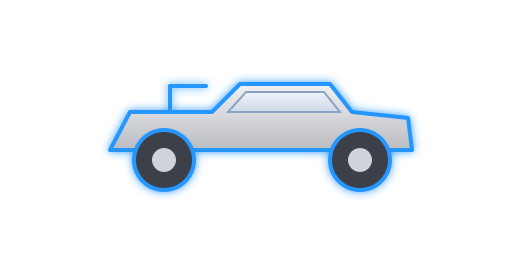
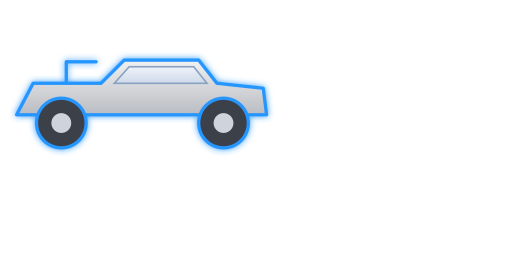
Menus: the illustrations fitted and centred in the part of the picture the menu shows
The menus draw a picture texel for texel from its top left corner, as much
as the widget covers (307x244 in Multiplayer, 284x208 in the game type
options, 279x202 in the profile settings), so the illustrations, drawn in
the middle of the 512x256, were off to the right and cut. Each is now
measured and fitted, centred, in its menu's part.

Changed region(s): [[0.0, 0.1875, 0.8438, 0.7812]]

diff --git a/tools/menu_icons.py b/tools/menu_icons.py
@@ -7,12 +7,19 @@ Settings menus), as plain illustrations in the menus' blue, and renders them to 
 Each is a 512x256 picture with a transparent background (as the PC version's are). They stand in
 for the PC version's pictures (Bungie's art: not shipped), one per entry of the menu list it
 previews: see port/assets/menus/NON_HANDDRAWN.md.
+
+The menus draw a picture texel for texel from its top left corner, as much of it as the widget
+showing it covers (ui_widget.c): only that corner of the 512x256 is seen. So each drawing is drawn
+once, measured (what it covers, its glow too), and fitted and centred in the corner its menu shows.
 """
 
 import argparse
 import shlex
 import subprocess
+import tempfile
 from pathlib import Path
+
+from PIL import Image
 
 ROOT = Path(__file__).resolve().parent.parent
 CE = ROOT / "port/assets/menus/ce/shell/main_menu"
@@ -167,6 +174,25 @@ def network():
                + pc(80, 130) + pc(330, 130))
 
 
+# the part of the picture each menu shows: its widget's size (port/assets/menus/ce/*.xml), from the
+# top left corner
+SHOWN = {
+    "multiplayer_type_select": (307, 244),  # multiplayer_options_pic
+    "settings_select/multiplayer_setup/playlist_edit": (284, 208),  # playlist_edit_ext_desc_pic
+    "settings_select/player_setup/player_profile_edit": (279, 202),  # profile_edit_extended_desc_pic
+}
+MARGIN = 10
+
+
+def fitted(drawing, covered, shown):
+    """the drawing, the part it covers (x0, y0, x1, y1) fitted and centred in shown (width, height)"""
+    x0, y0, x1, y1 = covered
+    width, height = shown
+    return (f'<svg xmlns="http://www.w3.org/2000/svg" width="512" height="256" viewBox="0 0 512 256">'
+            f'<svg x="{MARGIN}" y="{MARGIN}" width="{width - 2 * MARGIN}" height="{height - 2 * MARGIN}" '
+            f'viewBox="{x0} {y0} {x1 - x0} {y1 - y0}">{drawing}</svg></svg>')
+
+
 # (file below ce/shell/main_menu, picture)
 PICTURES = {
     "multiplayer_type_select/mp_options__0": versus,
@@ -196,16 +222,27 @@ def main():
     args = parser.parse_args()
     command = shlex.split(args.rsvg, posix=False)
     wsl = Path(command[0]).stem.lower() == "wsl"
+    def render(svg_path, png):
+        subprocess.run(command + ["-o", windows_to_wsl(png) if wsl else str(png),
+                                  windows_to_wsl(svg_path) if wsl else str(svg_path)], check=True)
+
     for name, draw in PICTURES.items():
         svg_path = SVG_OUT / (name + ".svg")
         svg_path.parent.mkdir(parents=True, exist_ok=True)
-        svg_path.write_text(draw(), encoding="utf-8", newline="\n")
         png = CE / (name + ".png")
         if not png.parent.is_dir():
             raise SystemExit(f"{png.parent} does not exist")
-        subprocess.run(command + ["-o", windows_to_wsl(png) if wsl else str(png),
-                                  windows_to_wsl(svg_path) if wsl else str(svg_path)], check=True)
-        print(name)
+        shown = SHOWN[name.rsplit("/", 1)[0]]
+        # drawn once as it is, to measure what it covers
+        svg_path.write_text(draw(), encoding="utf-8", newline="\n")
+        with tempfile.TemporaryDirectory(dir=SVG_OUT) as folder:
+            measured = Path(folder) / "measured.png"
+            render(svg_path, measured)
+            with Image.open(measured) as image:
+                covered = image.getchannel("A").point(lambda alpha: 255 if alpha > 8 else 0).getbbox()
+        svg_path.write_text(fitted(draw(), covered, shown), encoding="utf-8", newline="\n")
+        render(svg_path, png)
+        print(name, "covers", covered, "shown in", shown)
 
 
 if __name__ == "__main__":
